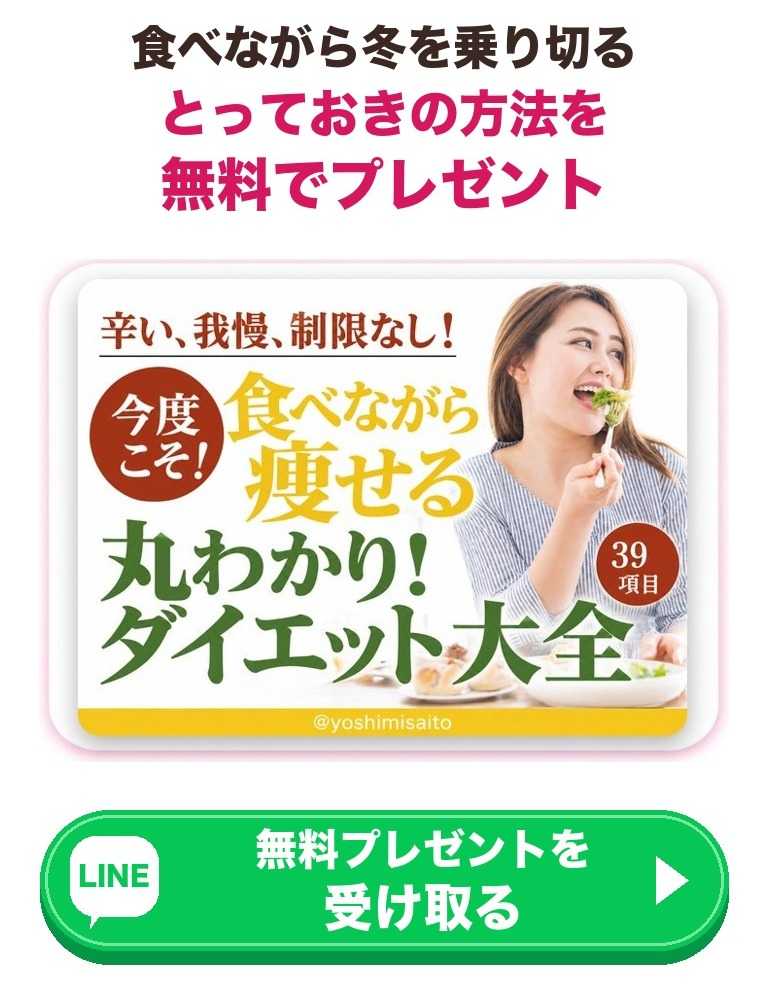
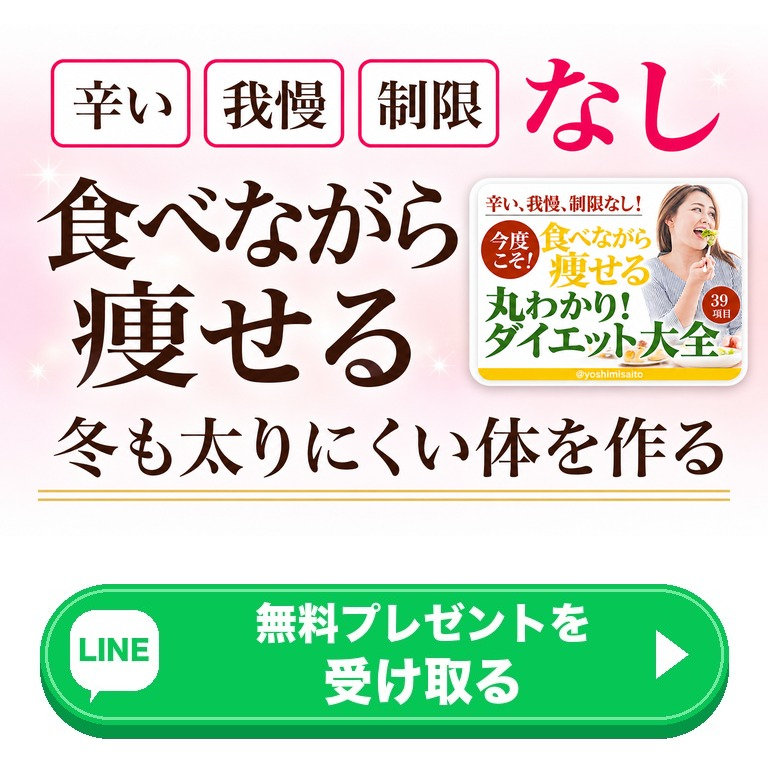
確認用ページ：トップに「食べながら痩せる」の画像を入れ、プレゼントの文字と表紙の重なりを外す

diff --git a/preview/index.html b/preview/index.html
@@ -2,4 +2,4 @@
 <style>body{margin:0;background:#fff}.w{max-width:480px;margin:0 auto}.w img{display:block;width:100%}
 .sticky{position:fixed;left:0;right:0;bottom:0;background:rgba(255,255,255,.95);padding:10px 14px;border-top:3px solid #f6b3c0}
 .sticky a{position:relative;display:flex;align-items:center;justify-content:center;max-width:420px;margin:0 auto;background:#06c755;color:#fff;font-weight:800;font-size:19px;padding:0 44px 0 66px;height:58px;border-radius:999px;text-decoration:none;font-family:"Hiragino Sans",sans-serif;box-shadow:0 5px 0 #04964a;border:2px solid #7ce6a6;box-sizing:border-box}.sticky .ic{position:absolute;left:12px;top:50%;transform:translateY(-50%);width:42px;height:38px;background:#fff;border-radius:13px;color:#06c755;font-size:13px;font-weight:900;display:flex;align-items:center;justify-content:center;letter-spacing:-.5px}.sticky .ic:after{content:"";position:absolute;left:9px;bottom:-7px;border-left:6px solid transparent;border-right:6px solid transparent;border-top:9px solid #fff;transform:skewX(20deg)}.sticky .ar{position:absolute;right:18px;top:50%;transform:translateY(-50%);border-left:14px solid #fff;border-top:10px solid transparent;border-bottom:10px solid transparent}</style></head>
-<body><div class="w"><img src="q01.jpg?v=6" alt=""><a href="https://lin.ee/VeUwJHO"><img src="q02.jpg?v=6" alt=""></a><img src="q03.jpg?v=6" alt=""><img src="q04.jpg?v=6" alt=""><img src="q05.jpg?v=6" alt=""><img src="q06.jpg?v=6" alt=""><img src="q07.jpg?v=6" alt=""><img src="q08.jpg?v=6" alt=""><img src="q09.jpg?v=6" alt=""><img src="q10.jpg?v=6" alt=""><img src="q11.jpg?v=6" alt=""><img src="q12.jpg?v=6" alt=""><img src="q13.jpg?v=6" alt=""><img src="q14.jpg?v=6" alt=""><a href="https://lin.ee/VeUwJHO"><img src="q15.jpg?v=6" alt=""></a></div><div class="sticky"><a href="https://lin.ee/VeUwJHO"><span class="ic">LINE</span>無料プレゼントを受け取る<span class="ar"></span></a></div></body></html>
+<body><div class="w"><img src="q01.jpg?v=7" alt=""><a href="https://lin.ee/VeUwJHO"><img src="q02.jpg?v=7" alt=""></a><img src="q03.jpg?v=7" alt=""><img src="q04.jpg?v=7" alt=""><img src="q05.jpg?v=7" alt=""><img src="q06.jpg?v=7" alt=""><img src="q07.jpg?v=7" alt=""><img src="q08.jpg?v=7" alt=""><img src="q09.jpg?v=7" alt=""><img src="q10.jpg?v=7" alt=""><img src="q11.jpg?v=7" alt=""><img src="q12.jpg?v=7" alt=""><img src="q13.jpg?v=7" alt=""><img src="q14.jpg?v=7" alt=""><a href="https://lin.ee/VeUwJHO"><img src="q15.jpg?v=7" alt=""></a></div><div class="sticky"><a href="https://lin.ee/VeUwJHO"><span class="ic">LINE</span>無料プレゼントを受け取る<span class="ar"></span></a></div></body></html>
